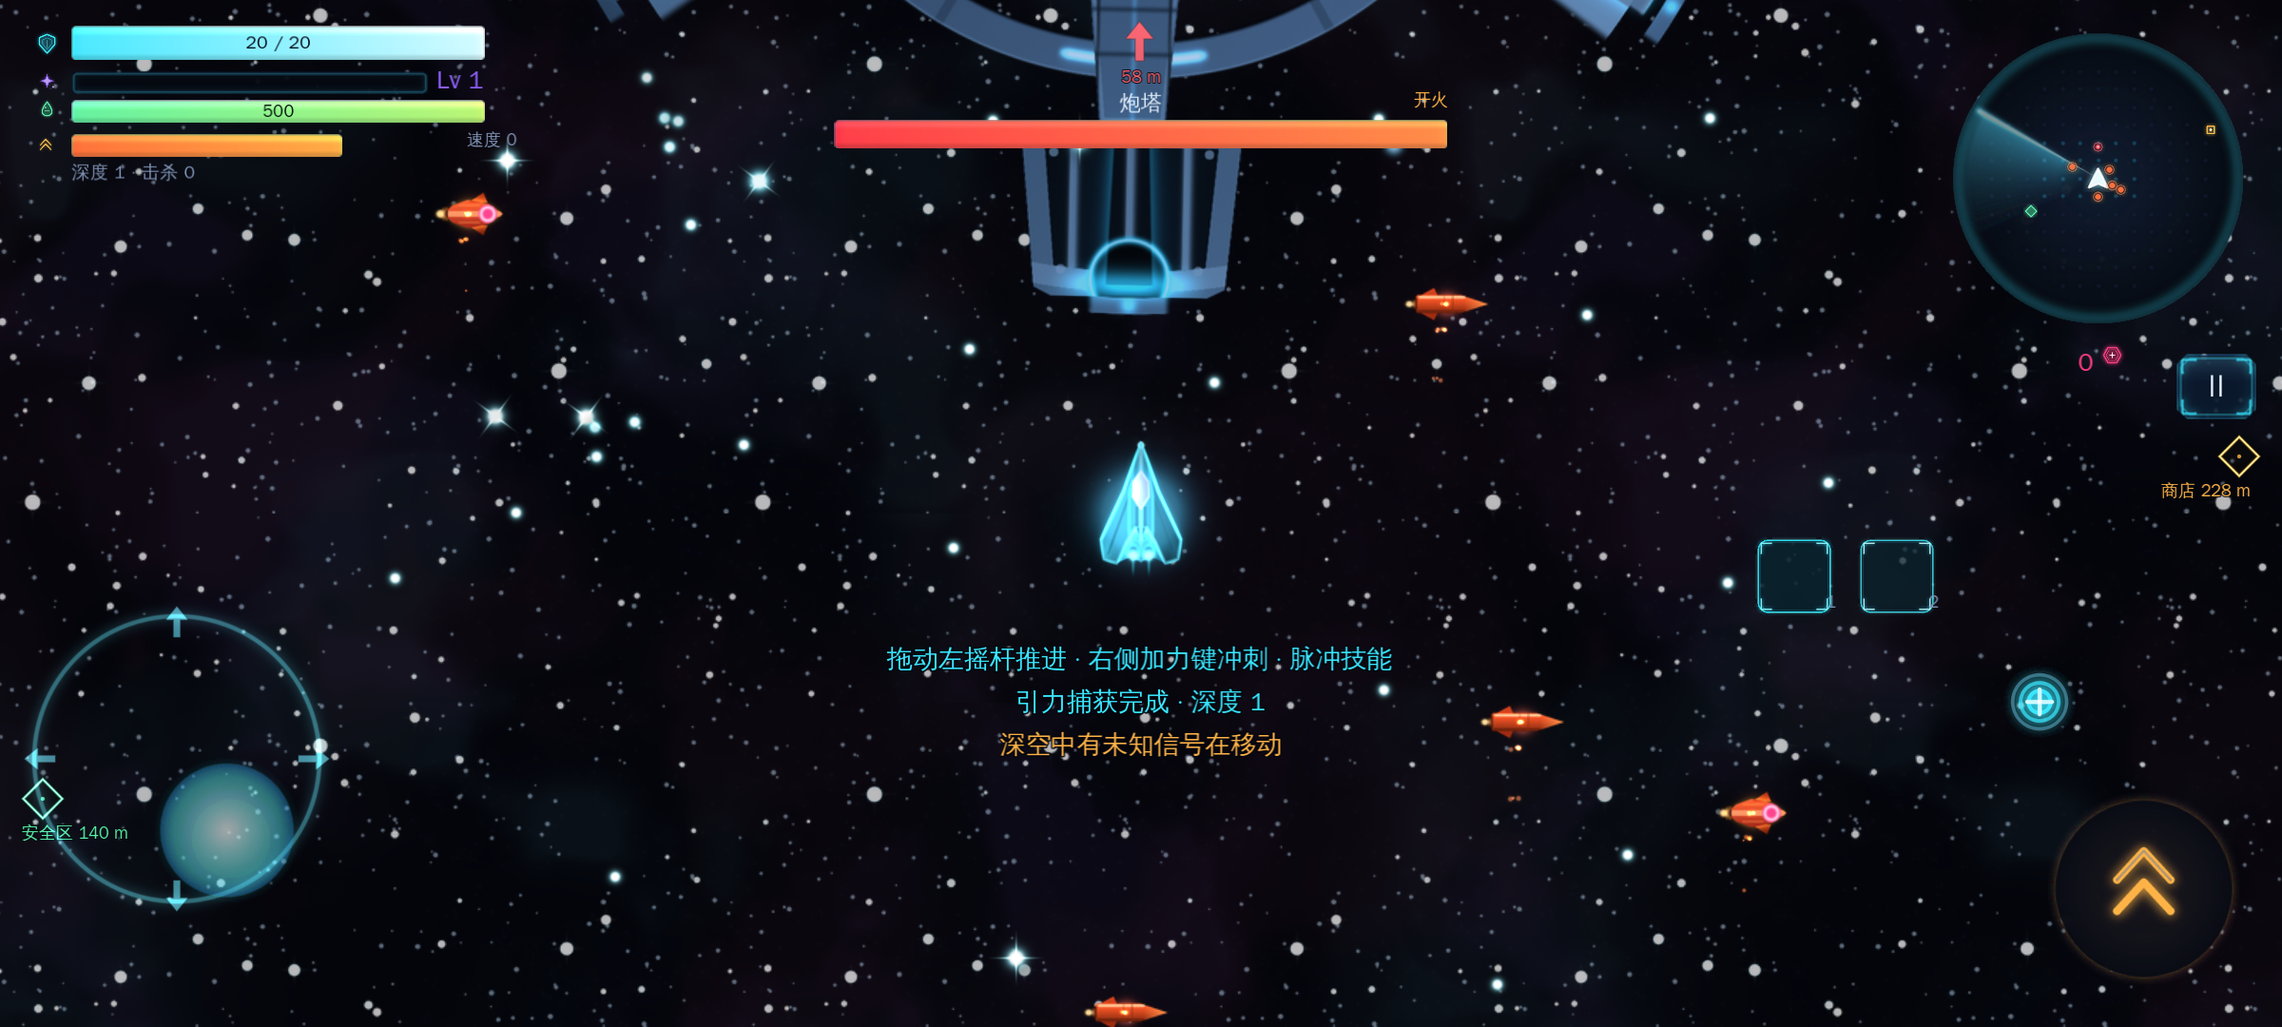
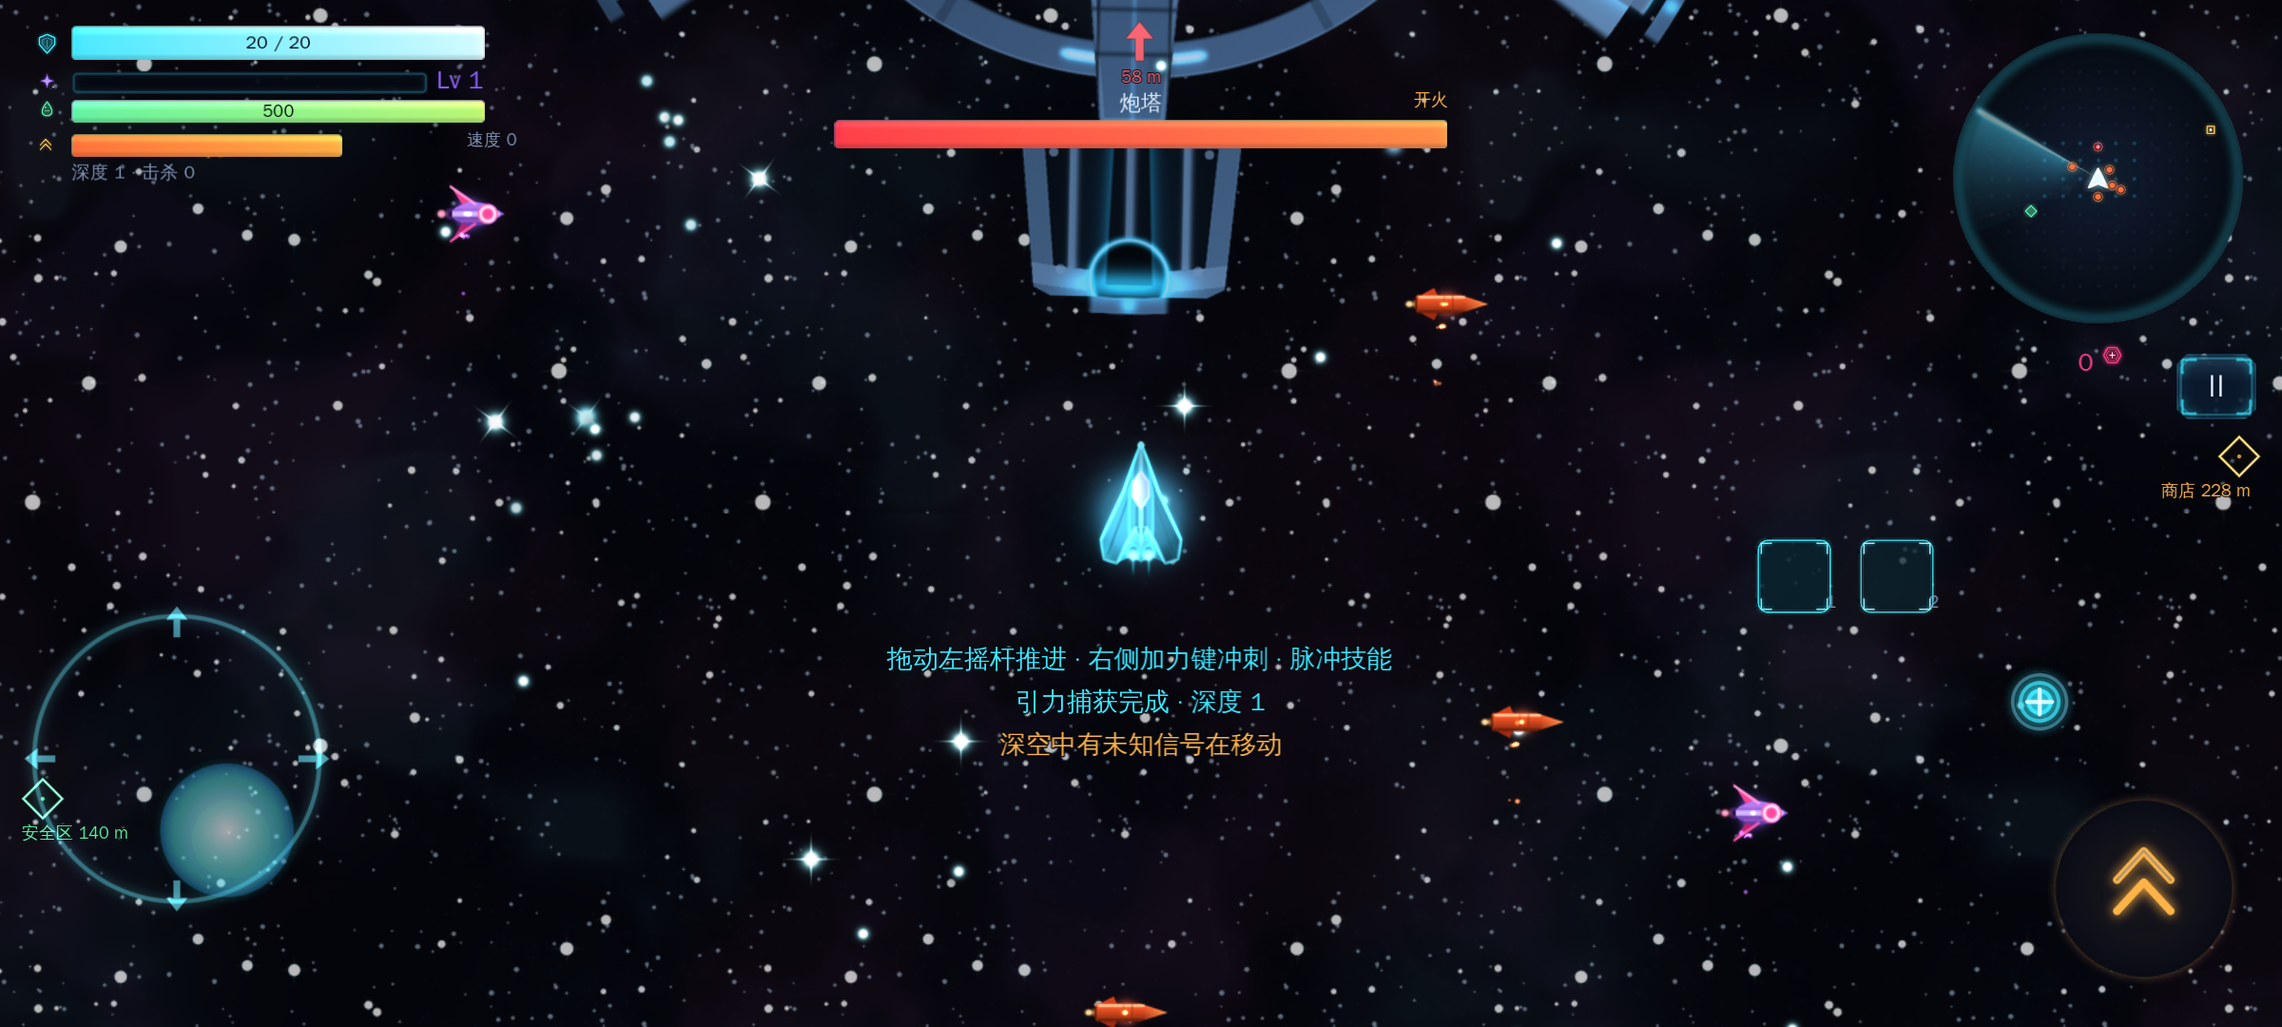
docs(1.2.0): 同步无人机脱锁语义、紫/品红配色与验证记录
更新 DESIGN_MAP/QA/ART/ASSET_MANIFEST 与 README 更新日志：撞玩家直接解体、锁定 5s 或近身掠过后永久脱锁；补充新配色说明与重生成截图（177 项自测）。

diff --git a/docs/DESIGN_MAP.md b/docs/DESIGN_MAP.md
@@ -47,19 +47,20 @@
 | 过热停火 | 2.5s | 命中即 `overheated=true`，`overheat_timer=2.5` |
 | 导弹入场 | 视野外时垂直于敌人-玩家连线进入 | 被发现的敌人在视野外：玩家侧向 820px；视野内：炮塔最近炮口 / 巢前向口，`R+14` 处出膛，角度朝向玩家 + 0.35s 提前量；未发现：屏幕外弧线偷袭 |
 | 导弹绕开敌人 | 锁定状态下自动尝试绕开敌人，避免刚发射就打自己 | `missile.step`：距敌人 <R+34 且航向向内时施加偏转；锁定时不与来源敌人碰撞 |
-| 自杀无人机 | 小型、高速、大转弯半径；撞玩家/敌人各 5 伤害；大概率被玩家甩飞并永久脱锁；视野内无修整区时成对刷新，上限 6；修整区驱离/解体；脉冲解体 | 见 §3.1 |
+| 自杀无人机 | 小型、高速、大转弯半径；撞玩家/敌人各 5 伤害并解体；靠机动甩开后永久脱锁；视野内无修整区时成对刷新，上限 6；修整区驱离/解体；脉冲解体 | 见 §3.1 |
 
 ### 3.1 自杀无人机（1.2.0）
 
 | 项 | 实现 |
 |---|---|
 | 速度 / 转向 | `DRONE_SPEED=460`、`DRONE_TURN=0.22 rad/s`，转弯半径约 460/0.22 ≈ **2090px**；每帧只按该角速度转向，锁定目标带 0.22s 速度预判 |
-| 外形 / 碰撞 | `drone.png` 64×64，机头 +X，1:1；碰撞半径 `DRONE_RADIUS=18`；橙色机翼 + 品红传感器，尾迹用 `spark` 粒子 |
+| 外形 / 碰撞 | `drone.png` 64×64，机头 +X，1:1；碰撞半径 `DRONE_RADIUS=18`；紫色机身 + 品红宽三角翼/传感器，尾迹用 `spark` 粒子（与橙红导弹明确区分） |
 | 刷新 | `_update_spawns`：`DRONE_INTERVAL=8s` 到点后调用 `_spawn_drone_pair`；**玩家视野内（`is_on_screen`，含贴图半径）有安全区或商店时不刷**，只以 `DRONE_RETRY=1s` 重试；玩家在安全区内也不刷 |
-| 数量 | 每批 `DRONE_PAIR=2`，只统计仍锁定的无人机；上限 `DRONE_MAX_LOCKED=6`，被甩飞后 `locked=false`，不占名额 |
+| 数量 | 每批 `DRONE_PAIR=2`，只统计仍锁定的无人机；上限 `DRONE_MAX_LOCKED=6`，脱锁后 `locked=false`，不占名额 |
 | 入场 | `_drone_spawn_point` 在屏幕边缘外 160~360px 生成，避开天体和修整区驱离圈；成对出现时共享基准方位 ±0.26 rad |
-| 撞玩家 | 5 点护盾伤害（`hurt_ship(..., "无人机")`）；`DRONE_DEFLECT_CHANCE=0.8` 概率调用 `Drone.fling_from`：沿远离玩家 + 0.55×玩家速度方向以 820 px/s 甩飞并**永久脱锁**；剩余 20% 当场解体。`hit_cd=0.6s` 防止同一架连续结算 |
+| 撞玩家 | 5 点护盾伤害（`hurt_ship(..., "无人机")`），随后无人机**当场解体**；不会弹开或二次撞击 |
 | 撞敌人 | 对炮塔/导弹巢造成 5 点伤害，随后无人机解体；不产生物质、代币或击杀计数 |
+| 甩开 / 脱锁 | 大转弯半径下玩家靠机动即可甩开：`DRONE_LOCK_TIME=5s` 到点，或近身进入 `DRONE_LOSE_DIST=240` 后开始远离时调用 `Drone._lose_lock`；`locked=false` 永久生效，不再追踪，直线飞行 `DRONE_DRIFT_LIFE=8s` 后安静解体 |
 | 修整区克制 | 安全区/商店完整半径 + `DRONE_ZONE_WARD=320` 为驱离圈：圈内以 12 rad/s 强行把机头掰向圈外；进入完整半径 + 机身后 `remove_drone` 当场解体 |
 | 脉冲克制 | `_cast_pulse` 对 R300 范围内所有无人机直接 `remove_drone`，原地解体（不推走、不造成伤害） |
 | HUD | 雷达上以 `radar_threat` 显示；首次刷新提示“高速自杀无人机来袭 · 脉冲可将其解体” |
@@ -169,7 +170,7 @@
 | 导弹入场 | 视野外侧向 820；视野内从外壳炮口 | 视野内从侧向生成会与炮塔脱节；从外壳出膛并用“锁定时不与来源碰撞”避免刚发射就自爆 |
 | 新增技能 3 个 | 引力锚 / 相位滑行 / 诱饵信标 | 文档只给脉冲示例，但要求 2 槽且升级；需要内容深度 |
 | 导弹巢 | R300 / HP40 / 3 发齐射 / 上限 4，与炮塔按 `depth%3==2` 交替 | 提供第二种非小型敌人，改变齐射节奏 |
-| 自杀无人机 | 新增小型高速敌人：460 px/s、0.22 rad/s、5 伤害；不在主敌人刷新序列里，由独立计时器成对刷新 | 给玩家一个“不能只绕圈”的持续压力，同时用大转弯半径、甩飞脱锁、修整区驱离和脉冲分别给出闪避/反击/撤退三种解法 |
+| 自杀无人机 | 新增小型高速敌人：460 px/s、0.22 rad/s、5 伤害；不在主敌人刷新序列里，由独立计时器成对刷新 | 给玩家一个“不能只绕圈”的持续压力，同时用大转弯半径、机动脱锁、修整区驱离和脉冲分别给出闪避/反击/撤退三种解法 |
 | 精英 | 每 5 层，血量 ×1.6、齐射 +1 | 深度推进的可见威胁升级 |
 | 修整区刷新 | 击败敌人后立即刷新安全区与商店（无倒计时），取代旧的 10s / 26s 计时 | 文档只给初始距离与“击败后安全时间”；立即刷新让修整区始终随战线前移，且玩家不必空场等待 |
 | 安全区捕获 | 700px 影响圈内持续捕获，不限于燃料 0；进圈后停靠 | 文档“无动力时会把玩家吸进去”；燃料 0 时也成立，且不会把高速玩家甩飞 |
@@ -190,7 +191,7 @@
 | 飞船 | `ship.gd` | `step` / `dash` / `take_damage` / `bounce_from` |
 | 导弹 | `missile.gd` | `step` / `unlock` / `retarget_to` |
 | 敌人 | `enemy.gd` | `step` / `_fire_one` / `take_hit` |
-| 自杀无人机 | `drone.gd` | `step` / `_zone_ward` / `fling_from` |
+| 自杀无人机 | `drone.gd` | `step` / `_lose_lock` / `_zone_ward` |
 | HUD / 覆盖层 | `ui.gd` | `refresh` / `_refresh_radar` / `_refresh_threats` / `show_levelup` / `show_shop` |
 | 标题/暂停/设置 | `menu.gd` | `build` / `_build_settings` / `_build_howto` |
 | 数值 / 内容 | `consts.gd` / `defs.gd` | `EG.*` / `Defs.ITEMS / SKILLS / roll_upgrades` |

diff --git a/docs/QA.md b/docs/QA.md
@@ -11,17 +11,17 @@
 godot --headless --path . -- --selftest
 ```
 
-完整输出：`docs/selftest_output.txt`（176 项断言 + 机器人明细）。
+完整输出：`docs/selftest_output.txt`（177 项断言 + 机器人明细）。
 
 ```
-RESULT: 176 checks, 0 failed
+RESULT: 177 checks, 0 failed
 ```
 
 **导出包内自测**（同一套脚本，从内嵌 PCK 运行）：
 
 ```bash
 ./build/linux/EscapeGravity.x86_64 --headless -- --selftest
-# RESULT: 176 checks, 0 failed
+# RESULT: 177 checks, 0 failed
 ```
 
 覆盖面：
@@ -41,7 +41,7 @@ RESULT: 176 checks, 0 failed
 - 物品/升级：2 格、满栏销毁、5 格上限后无栏位卡、技能满后无新技能卡；游玩中升级只累积 `pending_levels`、不弹面板，进入安全区才开面板，停靠期间新攒的等级立即补开
 - 撞击：撞敌人为同速天体的 1.5 倍、伤害随速度升高、撞敌人与撞天体单次都封顶 5、法线速度低于 40 不掉护盾
 - 技能：脉冲 10 燃料 / 200 冲量 / 脱锁 / 5s CD / 按移动方向左右偏转（静止按面向）；诱饵抵达脱锁；干扰弹偏转
-- 自杀无人机（`_test_drones`，1.2.0 新增 22 项断言）：成对刷新、屏幕外入场、锁定额度 6、满额停刷、速度 460 + 低转向率、视野内有安全区/商店时停刷、撞玩家 5 伤害、80% 甩飞永久脱锁 / 20% 解体、撞敌人 5 伤害后解体、安全区驱离圈推开、贴本体解体、脉冲原地解体、刷新计时器接线
+- 自杀无人机（`_test_drones`，1.2.0 新增 23 项断言）：成对刷新、屏幕外入场、锁定额度 6、满额停刷、速度 460 + 低转向率、视野内有安全区/商店时停刷、撞玩家 5 伤害并当场解体、近身掠过后被甩开且永久脱锁、脱锁不占锁定名额、5 秒锁定上限、撞敌人 5 伤害后解体、安全区驱离圈推开、贴本体解体、脉冲原地解体、刷新计时器接线
 - 死亡：燃料耗尽 12s 判负、导弹 25 击穿 20 护盾、复活币恢复 8
 - 地图：隐藏路线不回头（每段沿主方向前进）、每段经过天体引力圈、42% 尝试把天体放进两个敌人之间的空白路径且避开安全区/商店/敌人、两个敌人之间必有安全区、安全区离两侧敌人≥1150 且刷新时避开当前敌人、商店比安全区离路线更远；初始安全区/商店/敌人按路线落位；敌人按路线顺序刷新
 - 生成间距：天体压住安全区/商店/敌人时环形搜索重新落点（安全区按 R280+160、敌人按外壳+160）；新天体不会生成在安全区/玩家/路线预置节点上；敌人被天体挤到会沿径向推出表面
@@ -68,7 +68,7 @@ RESULT: 176 checks, 0 failed
 
 ## 2. 导出包验证
 
-> 本次 **1.2.0** 重跑了源码自测（176/176），重新导出 Linux 与 Windows 可执行文件（Linux 包内自测通过、重新生成截图）；
+> 本次 **1.2.0** 重跑了源码自测（177/177），重新导出 Linux 与 Windows 可执行文件（Linux 包内自测通过、重新生成截图）；
 > **dist 发行包与 Android 包未重建、未上传**（下方 Android 记录为 1.0.9 实测；Windows 段同时列出 1.2.0 本地导出验证与 1.0.9 发行包记录）。
 
 ### 2.1 Linux（验证打包完整性）
@@ -78,9 +78,9 @@ xvfb-run -a -s "-screen 0 1280x720x24" \
   ./build/linux/EscapeGravity.x86_64 -- --shots=/tmp/shots
 ```
 
-- 1.2.0 源码重新导出后在 Xvfb + llvmpipe 下真实运行，退出码 0；11 张截图全部重新生成（**由导出包运行产生，不是编辑器**），已复制到 `docs/shots/`。战斗截图额外摆出两架自杀无人机，便于核对新敌人的贴图与雷达点。
+- 1.2.0 源码重新导出后在 Xvfb + llvmpipe 下真实运行，退出码 0；11 张截图全部重新生成（**由导出包运行产生，不是编辑器**），已复制到 `docs/shots/`。战斗截图额外摆出两架紫/品红自杀无人机，便于核对新敌人与橙红导弹的颜色区分及雷达点。
 - 标题、中文字体、贴图、音频、脚本均从内嵌 PCK 加载；无缺失贴图警告。
-- `build/linux/EscapeGravity.x86_64` = 96,369,344 bytes，ELF x86-64（1.2.0 导出）。
+- `build/linux/EscapeGravity.x86_64` = 96,370,352 bytes，ELF x86-64（1.2.0 导出）。
 - 触屏 20:9 截图另用 `--resolution 2400x1080 -- --touch --shots=...` 生成，取 `04_battle` 作为 `docs/shots/12_touch.png`。
 
 ### 2.2 Windows（1.2.0 本地导出验证；1.0.9 发行包记录）
@@ -93,7 +93,7 @@ file build/windows/EscapeGravity.exe
 python3 -c "d=open(...).read(); print(b'GDPC' in d[-4096:])"   # True
 ```
 
-- 1.2.0 本地导出：132,053,392 bytes，PE32+ x86-64，尾部 `GDPC` 校验通过；单文件、内嵌 PCK，无外部依赖。
+- 1.2.0 本地导出：132,054,400 bytes，PE32+ x86-64，尾部 `GDPC` 校验通过；单文件、内嵌 PCK，无外部依赖。
 - 1.0.9 发行包：132,039,856 bytes。
 - 未做商业代码签名（没有证书），首次运行会有 SmartScreen 提示。
 

diff --git a/AGENTS.md b/AGENTS.md
@@ -113,7 +113,7 @@ escape-gravity-release/
 - **天体与内容双向避让**：新天体落点用 `Galaxy.body_fits()` 检查已加载天体、当前飞船、安全区/商店/敌人和**全部路线预置节点**；安全区/商店/敌人刷新用 `_clear_body_point()` 的 18 圈 × 24 方向环形搜索，安全区按完整 R280、敌人按外壳、天体按表面 + `BODY_CONTENT_MARGIN=160` 留白。别再把 `_clear_body_point` 的 clearance 传成 90/120。
 - **升级只在安全区结算**：`on_matter_collected` 打满经验只累加 `pending_levels` 并提示“待升级 ×N”，**不要**在游玩中调用 `begin_levelup`；`_enter_safe` 里才把攒下的次数逐张弹出。停靠期间继续吸物质攒出的新等级也应立刻弹面板。
 - **撞击伤害按速度**：`_resolve_collisions` 用 `ship.bounce_from()` 返回的法线冲击速度，经 `collision_damage()` 把 40~380 px/s 映射到 **0.5~5**；撞敌人 ×1.5，撞敌人与撞天体的最终值都封顶 **5**。擦边（法线速度 <40）不掉血。别退回固定 3~7 的 remap。
-- **自杀无人机（1.2.0）**：`drone.gd` 独立于 `enemies` 数组；460 px/s / 0.22 rad/s（转弯半径约 2090），撞玩家/敌人各 5 伤害。撞玩家后 80% 概率 `fling_from` 甩飞并永久脱锁（`locked=false`），20% 解体。`_update_spawns` 每 8s 成对刷新，**玩家视野内有安全区/商店时暂停**，锁定上限 6；`Drone._zone_ward` 用 320px 驱离圈推离、进入区域本体即解体；`_cast_pulse` 范围内直接解体。不要把它并进 `enemies`，否则会破坏主敌人的发现/血条/计数。
+- **自杀无人机（1.2.0）**：`drone.gd` 独立于 `enemies` 数组；460 px/s / 0.22 rad/s（转弯半径约 2090），撞玩家/敌人各 5 伤害并**当场解体**。大转弯半径下玩家靠机动甩开：锁定最多 5s，近身进入 240px 后开始远离立即 `_lose_lock`，`locked=false` 永久生效、不再追踪，残骸直线飞 8s 后消失。`_update_spawns` 每 8s 成对刷新，**玩家视野内有安全区/商店时暂停**，锁定上限 6；`Drone._zone_ward` 用 320px 驱离圈推离、进入区域本体即解体；`_cast_pulse` 范围内直接解体。不要把它并进 `enemies`，否则会破坏主敌人的发现/血条/计数。
 - **平衡**：初始燃料 **500**；推进 4/s、加力 **4.8/s（1.2×）**（均按实际 Δv），3× 推力，引擎极速 150 / 加力 192，初始槽 **6.6s**；护盾 20。
 - **状态机**：`PLAYING / LEVELUP / SHOP / DESTROY / DEAD`；暂停由 `main.gd` 控制，`run.paused` 冻结模拟。
 - **存档**：`user://escape_gravity.cfg` 只保存设置与历史记录；没有中途存档 / 云存档 / meta 解锁。
@@ -160,7 +160,7 @@ python3 tools/make_dist.py --platforms windows,linux
 
 改动运行逻辑后，至少完成：
 
-1. `RESULT: 176 checks, 0 failed`；导出包内再跑一次 `./build/linux/EscapeGravity.x86_64 --headless -- --selftest`。
+1. `RESULT: 177 checks, 0 failed`；导出包内再跑一次 `./build/linux/EscapeGravity.x86_64 --headless -- --selftest`。
 2. 用导出包重新生成截图；桌面 11 张 + 移动端 20:9 一张，检查标题居中、触屏按钮不重叠。
 3. 无运行时绘制审计（应只有 `RenderingServer.frame_post_draw` 一条命中）：
    ```bash

diff --git a/README.md b/README.md
@@ -16,10 +16,10 @@
 
 ### 1.2.0 更新
 
-- **新增小型敌人“自杀式无人机”**：速度 **460 px/s**、转向率仅 **0.22 rad/s**（转弯半径约 **2090px**），锁定玩家后只能画大弧冲过来。撞到玩家或其他敌人各造成 **5 点伤害**；撞玩家时有 **80%** 概率被甩飞并**永久脱锁**（之后不再追踪），只有 20% 概率当场解体。
+- **新增小型敌人“自杀式无人机”**：速度 **460 px/s**、转向率仅 **0.22 rad/s**（转弯半径约 **2090px**），锁定玩家后只能画大弧冲过来。撞到玩家或其他敌人各造成 **5 点伤害**，并在撞击瞬间**解体**。大转弯半径让玩家可以用机动把它甩开：锁定最多持续 **5 秒**，近身掠过后开始远离即永久脱锁，之后不会再次追踪。
 - **刷新规则**：玩家视野内没有安全区或商店时才会刷新；每 **8 秒**成对刷新 **2 架**，锁定玩家的无人机总数上限 **6 架**；视野内出现修整区时暂停刷新并每秒重试。
 - **修整区克制**：安全区/商店的驱离圈会把无人机强行推离，贴到区域本体则当场解体；**脉冲技能**范围内的无人机直接原地解体。
-- 无人机在雷达上显示为威胁点，战斗截图与自测同步更新。
+- 无人机改用**紫/品红**机身与宽三角翼，和橙红色导弹明显区分；雷达上显示为威胁点，战斗截图与自测同步更新。
 
 ### 1.1.0 更新
 
@@ -109,7 +109,7 @@ escape-gravity-release/
 │   ├── meteor.gd / matter.gd / zone.gd / decoy.gd / anchor.gd / fx.gd
 │   ├── assets.gd / audio.gd / store.gd / controls.gd
 │   ├── backdrop.gd           # 视差星云/星点
-│   └── selftest.gd           # 176 项无头断言 + 机器人可玩性验证
+│   └── selftest.gd           # 177 项无头断言 + 机器人可玩性验证
 ├── assets/                   # world / ui / audio / fonts
 ├── tools/                    # 素材生成、后期、构建、打包
 ├── docs/                     # ART.md / DESIGN_MAP.md / QA.md / 资产清单 / 截图
@@ -132,7 +132,7 @@ escape-gravity-release/
 
 ```bash
 godot --headless --path . -- --selftest
-# RESULT: 176 checks, 0 failed
+# RESULT: 177 checks, 0 failed
 ```
 
 ### 界面

diff --git a/docs/ASSET_MANIFEST.md b/docs/ASSET_MANIFEST.md
@@ -28,7 +28,7 @@
 | `turret.png` | 1024×1024 | 巨型炮塔空间站，**俯视**，外环半径约 400px（画布中心 512），3 个炮口均布，暗金属 + 青色能量环 + 紫色核心；整体圆形，**不要明显旋转朝向** |
 | `turret_ember.png` | 768×768 | 炮塔过载时的红色能量纹（中心透明、贴外环的弧形碎片），可叠加在 turret 上 |
 | `nest.png` | 256×256 | 小型导弹巢敌舰，圆形/多瓣，品红 + 紫，中央核心发光；主体占 80% |
-| `drone.png` | 64×64 | 自杀式无人机，**机头朝 +X**，橙色三角翼 + 品红传感器 + 尾部小喷焰；主体约占画布 70% |
+| `drone.png` | 64×64 | 自杀式无人机，**机头朝 +X**，紫色三角机身 + 品红宽翼/传感器 + 尾部品红喷焰；主体约占画布 70% |
 | `meteor_1.png` | 96×96 | 不规则陨石，灰蓝岩石，边缘冷光；主体占 80% |
 | `meteor_2.png` | 96×96 | 同上，不同形状 |
 | `meteor_3.png` | 96×96 | 同上，不同形状 |

diff --git a/docs/ART.md b/docs/ART.md
@@ -48,7 +48,7 @@ assets/
 | `turret.png` | 1024×1024 | `scale = 420/400`（外缘约 420px），会缓慢自转 |
 | `turret_ember.png` | 768×768 | 过载时叠加红色能量纹，`scale = 420/384` |
 | `nest.png` | 256×256 | `scale = R/124`（可见外缘 ≈ R）；会缓慢自转/浮动 |
-| `drone.png` | 64×64 | 1:1，**机头朝 +X**；小型自杀无人机，碰撞半径 18，橙色机翼 + 品红传感器 |
+| `drone.png` | 64×64 | 1:1，**机头朝 +X**；小型自杀无人机，碰撞半径 18，紫色机身 + 品红宽三角翼/传感器 |
 | `meteor_1..3.png` | 96×96 | `scale = 0.42`（显示约 40px），碰撞半径 17；随机旋转 |
 | `matter_small.png` | 32×32 | 0.7×（约 22px） |
 | `matter_big.png` | 64×64 | 0.62×（约 40px） |
